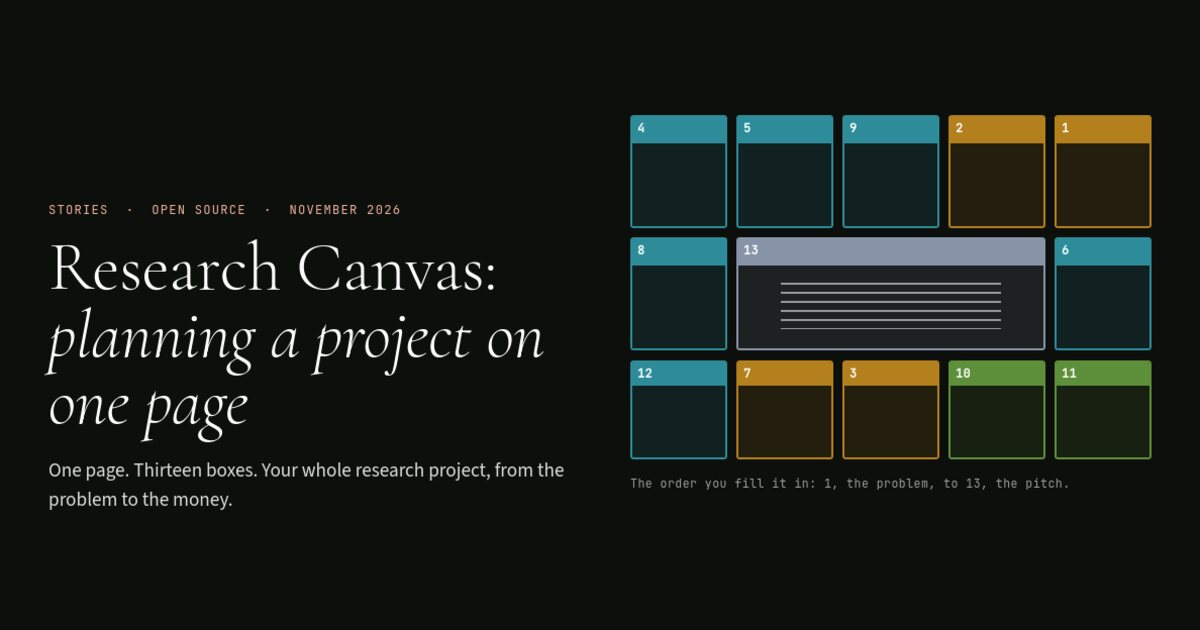
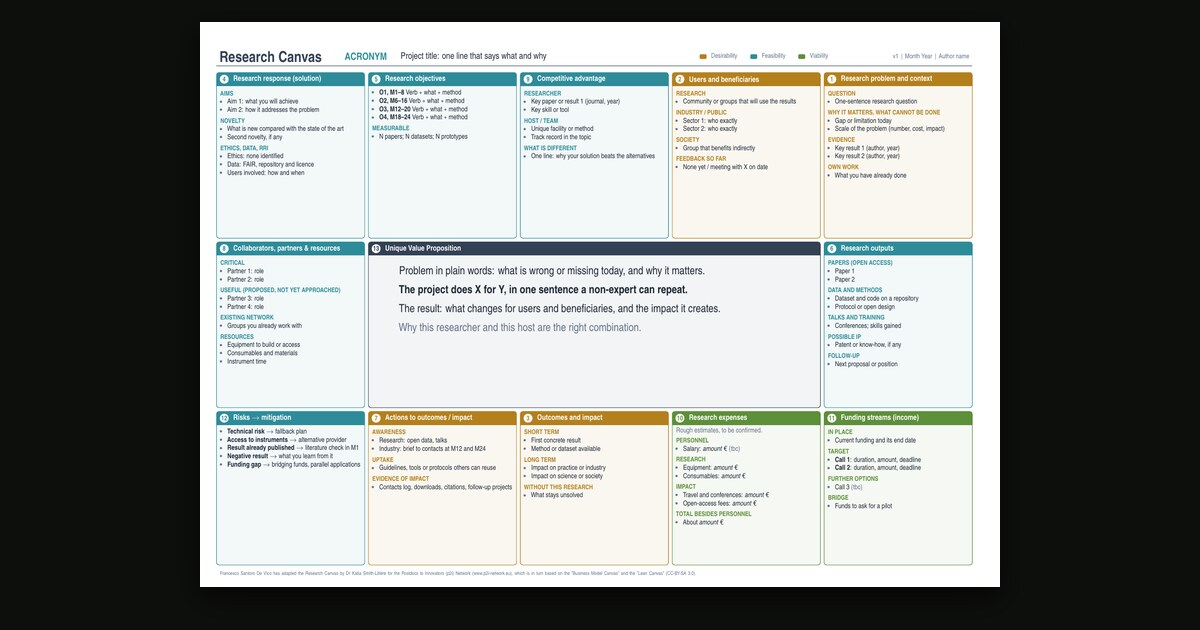
Make Geology one scrolling page and show the empty canvas on its card
Papers, Stories (inside a pale frame that unfolds) and Video now sit on one
page instead of tabs, with three doors that scroll to them and a slim section
bar. The Research Canvas hero names its boxes, and its card and share image
now show the empty template on black.

diff --git a/hobbies/geology.html b/hobbies/geology.html
@@ -13,8 +13,9 @@
     <script>document.documentElement.classList.add('js');setTimeout(function(){var b=document.body;if(b&&!b.classList.contains('is-loaded')){b.classList.add('is-loaded');document.querySelectorAll('.reveal').forEach(function(e){e.classList.add('is-in')})}},2500);</script>
     <link rel="stylesheet" href="../css/style.css?v=3">
     <style>
-    /* Geology index: three doors onto three kinds of work. The doors are links
-       and every panel is in the HTML, so without JS the page is one long list. */
+    /* Geology index: one long page. Three doors at the top scroll to the three parts:
+       papers on night, the stories inside a pale frame that unfolds as you arrive,
+       then the videos on night again. A slim section bar follows you down. */
     .geo-doors { background: var(--color-night); padding: clamp(1rem, 2vw, 1.75rem) 0 0; }
     .geo-door-row { display: flex; gap: clamp(.5rem, 1vw, .9rem); height: clamp(340px, 58vh, 600px); }
     .geo-door {
@@ -24,12 +25,11 @@
       transition: flex-grow .9s var(--ease-out);
     }
     .geo-door:hover, .geo-door:focus-visible { color: #fff; flex-grow: 1.35; }
-    .js .geo-door[aria-selected="true"] { flex-grow: 1.7; }
     .geo-door img {
       position: absolute; inset: 0; width: 100%; height: 100%; object-fit: cover;
       filter: saturate(.75) brightness(.72); transition: filter .9s var(--ease-out), transform 1.4s var(--ease-out);
     }
-    .geo-door:hover img, .js .geo-door[aria-selected="true"] img { filter: none; transform: scale(1.03); }
+    .geo-door:hover img, .geo-door.is-active img { filter: none; transform: scale(1.03); }
     .geo-door::after {
       content: ''; position: absolute; inset: 0;
       background: linear-gradient(to top, rgba(13,15,12,.92) 8%, rgba(13,15,12,.1) 62%);
@@ -53,7 +53,7 @@
       background: var(--color-amber); transform: scaleX(0); transform-origin: left;
       transition: transform .8s var(--ease-out);
     }
-    .js .geo-door[aria-selected="true"] .geo-door-bar { transform: scaleX(1); }
+    .geo-door.is-active .geo-door-bar { transform: scaleX(1); }
 
     .geo-panel-head { display: grid; grid-template-columns: minmax(0,5fr) minmax(0,7fr); gap: clamp(1.5rem,4vw,4rem); align-items: end; margin-bottom: clamp(2.5rem,5vw,4.5rem); }
     .geo-panel-head h2 { font-weight: 300; font-size: clamp(2.4rem, 5vw, 4.4rem); line-height: 1.02; margin: 0; color: inherit; }
@@ -83,9 +83,18 @@
     .geo-paper-meta a { position: relative; z-index: 1; color: #fff; border-bottom: 1px solid var(--color-amber); }
     .geo-paper-meta a:hover { color: #f0b39f; }
 
-    /* Stories keep the site's ordinary post cards */
+    /* Stories keep the site's ordinary post cards, inside a pale frame on the night page */
+    .geo-stories-sec { background: var(--color-night); padding: clamp(.5rem,2vw,1.5rem) 0 clamp(2rem,4vw,3.5rem); scroll-margin-top: 4rem; }
+    .geo-frame { margin: 0 var(--gutter); background: var(--color-chalk); color: var(--color-ink); border-radius: 6px; clip-path: inset(var(--ci,0px) var(--cx,0px) 0 var(--cx,0px) round 6px); will-change: clip-path; }
+    .geo-frame.post-index { padding-top: clamp(3rem,6vw,5.5rem); }
     .geo-stories .geo-panel-head { color: var(--color-ink); }
     .geo-stories .geo-panel-head p { color: var(--color-slate); }
+
+    .geo-snav { position: fixed; z-index: 44; bottom: 1rem; left: 50%; display: flex; gap: .2rem; padding: .3rem; background: rgba(13,15,12,.9); border: 1px solid rgba(255,255,255,.16); border-radius: 99px; transform: translate(-50%,14px); opacity: 0; pointer-events: none; transition: opacity .4s, transform .5s var(--ease-out); }
+    .geo-snav.on { opacity: 1; transform: translate(-50%,0); pointer-events: auto; }
+    .geo-snav a { min-height: 38px; display: inline-flex; align-items: center; padding: 0 1.1rem; border-radius: 99px; font: 600 .88rem var(--font-body); color: rgba(255,255,255,.75); transition: background .25s, color .25s; }
+    .geo-snav a:hover { color: #fff; }
+    .geo-snav a.is-active { background: var(--color-amber); color: #fff; }
 
     /* Video */
     .geo-video { background: var(--color-night); color: #fff; padding: clamp(3.5rem,7vw,6.5rem) 0; }
@@ -120,7 +129,7 @@
     }
     @media (max-width: 760px) {
       .geo-door-row { flex-direction: column; height: auto; }
-      .geo-door, .geo-door:hover, .js .geo-door[aria-selected="true"] { flex: none; min-height: 188px; }
+      .geo-door, .geo-door:hover { flex: none; min-height: 188px; }
       .geo-panel-head { grid-template-columns: 1fr; gap: 1rem; }
       .geo-paper { grid-template-columns: 1fr; }
       .geo-paper-year { padding: 0; }
@@ -147,22 +156,22 @@
 
         <section class="geo-doors" aria-label="Browse by kind">
             <div class="frame">
-                <div class="geo-door-row" role="tablist" aria-label="Kinds of work">
-                    <a class="geo-door" id="door-papers" href="#papers" role="tab" aria-controls="papers" aria-selected="true">
+                <div class="geo-door-row">
+                    <a class="geo-door" id="door-papers" href="#papers">
                         <img src="../img/hobbies/geology/calcite-micropillars.jpg" alt="" fetchpriority="low">
                         <span class="geo-door-count">7 papers</span>
                         <span class="geo-door-name">Scientific papers</span>
                         <span class="geo-door-note">My own research, each paper opened up into a page you can explore.</span>
                         <span class="geo-door-bar"></span>
                     </a>
-                    <a class="geo-door" id="door-stories" href="#stories" role="tab" aria-controls="stories" aria-selected="false">
+                    <a class="geo-door" id="door-stories" href="#stories">
                         <img src="../img/post/geology/lanzarote-skylight.jpg" alt="">
                         <span class="geo-door-count">3 posts</span>
                         <span class="geo-door-name">Stories</span>
                         <span class="geo-door-note">Geology written for anyone curious, from fieldwork to the Dolomites.</span>
                         <span class="geo-door-bar"></span>
                     </a>
-                    <a class="geo-door" id="door-video" href="#video" role="tab" aria-controls="video" aria-selected="false">
+                    <a class="geo-door" id="door-video" href="#video">
                         <img src="../img/hobbies/geology/video-door.jpg" alt="">
                         <span class="geo-door-count">3 videos</span>
                         <span class="geo-door-name">Video</span>
@@ -173,7 +182,11 @@
             </div>
         </section>
 
-        <section class="geo-papers geo-panel" id="papers" role="tabpanel" aria-labelledby="door-papers">
+        <nav class="geo-snav" id="geo-snav" aria-label="Sections of this page">
+            <a href="#papers">Papers</a><a href="#stories">Stories</a><a href="#video">Video</a>
+        </nav>
+
+        <section class="geo-papers geo-panel" id="papers">
             <div class="frame">
                 <header class="geo-panel-head">
                     <h2>Scientific papers</h2>
@@ -270,7 +283,8 @@
             </div>
         </section>
 
-        <section class="post-index geo-stories geo-panel" id="stories" role="tabpanel" aria-labelledby="door-stories">
+        <section class="geo-stories-sec" id="stories">
+        <div class="geo-frame post-index geo-stories" id="geo-frame">
         <div class="frame">
 
             <header class="geo-panel-head">
@@ -283,7 +297,7 @@
 
                 <a href="../posts/geology/geology-research-canvas.html" class="blog-post-card reveal">
                     <div class="blog-post-card-image">
-                        <img src="../img/post/geology/research-canvas-og.jpg" alt="Thirteen boxes of the Research Canvas, in three colours, assembling on a dark page">
+                        <img src="../img/post/geology/research-canvas-og.jpg" alt="The empty Research Canvas: thirteen boxes in three colours on one A4 page, on a black background">
                     </div>
                     <div class="blog-post-card-body">
                         <span class="post-date">November 2026</span>
@@ -338,9 +352,10 @@
 
             </div>
         </div>
+        </div>
         </section>
 
-        <section class="geo-video geo-panel" id="video" role="tabpanel" aria-labelledby="door-video">
+        <section class="geo-video geo-panel" id="video">
             <div class="frame">
                 <header class="geo-panel-head">
                     <h2>Video</h2>
@@ -388,49 +403,26 @@
     <script src="https://cdn.jsdelivr.net/npm/lenis@1.1.13/dist/lenis.min.js" defer></script>
     <script>
     (function () {
+      var reduce = window.matchMedia('(prefers-reduced-motion: reduce)').matches;
       var doors = [].slice.call(document.querySelectorAll('.geo-door'));
-      var panels = [].slice.call(document.querySelectorAll('.geo-panel'));
-      function open(id, focus) {
-        doors.forEach(function (d) {
-          var on = d.getAttribute('aria-controls') === id;
-          d.setAttribute('aria-selected', on);
-          d.tabIndex = on ? 0 : -1;
-          if (on && focus) d.focus();
-        });
-        panels.forEach(function (p) { p.hidden = p.id !== id; });
-        if (window.siteLenis) window.siteLenis.resize();
+      var snavLinks = [].slice.call(document.querySelectorAll('.geo-snav a'));
+      var ids = ['papers', 'stories', 'video'].map(function (i) { return document.getElementById(i); });
+      var snav = document.getElementById('geo-snav'), doorsSec = document.querySelector('.geo-doors'), frame = document.getElementById('geo-frame');
+      function spy() {
+        var y = window.innerHeight * .38, cur = -1;
+        ids.forEach(function (el, i) { if (el.getBoundingClientRect().top <= y) cur = i; });
+        doors.forEach(function (d, i) { d.classList.toggle('is-active', i === cur); });
+        snavLinks.forEach(function (a, i) { a.classList.toggle('is-active', i === cur); });
+        snav.classList.toggle('on', doorsSec.getBoundingClientRect().bottom < 70);
+        // the stories frame unfolds as it comes into view
+        var r = frame.getBoundingClientRect(), p = reduce ? 1 : Math.max(0, Math.min(1, (window.innerHeight * .92 - r.top) / (window.innerHeight * .75)));
+        p = p * p * (3 - 2 * p);
+        frame.style.setProperty('--cx', ((1 - p) * 9).toFixed(2) + 'vw');
+        frame.style.setProperty('--ci', ((1 - p) * 12).toFixed(2) + 'vh');
       }
-      function jump(id) {
-        var el = document.getElementById(id);
-        if (window.siteLenis) window.siteLenis.scrollTo(el, { offset: -64 });
-        else window.scrollTo(0, el.getBoundingClientRect().top + window.pageYOffset - 64);
-      }
-      doors.forEach(function (d, i) {
-        d.addEventListener('click', function (e) {
-          e.preventDefault();
-          var id = d.getAttribute('aria-controls');
-          open(id);
-          history.replaceState(null, '', '#' + id);
-          jump(id);
-        });
-        d.addEventListener('keydown', function (e) {
-          var step = { ArrowRight: 1, ArrowDown: 1, ArrowLeft: -1, ArrowUp: -1 }[e.key];
-          if (!step) return;
-          e.preventDefault();
-          open(doors[(i + step + doors.length) % doors.length].getAttribute('aria-controls'), true);
-        });
-      });
-      // the Video link in a paper row opens the Video door
-      document.querySelectorAll('.geo-paper-meta a[href="#video"]').forEach(function (a) {
-        a.addEventListener('click', function (e) {
-          e.preventDefault();
-          open('video');
-          history.replaceState(null, '', '#video');
-          jump('video');
-        });
-      });
-      var start = location.hash.slice(1);
-      open(document.getElementById(start) && doors.some(function (d) { return d.getAttribute('aria-controls') === start; }) ? start : 'papers');
+      window.addEventListener('scroll', spy, { passive: true });
+      window.addEventListener('resize', spy);
+      spy();
 
       document.querySelectorAll('.geo-vid').forEach(function (fig) {
         var player = fig.querySelector('.geo-video-p');

diff --git a/posts/geology/geology-research-canvas.html b/posts/geology/geology-research-canvas.html
@@ -35,6 +35,8 @@
     .mini i { position: relative; border: 2px solid var(--c); background: color-mix(in srgb, var(--c) 14%, transparent); border-radius: 3px; opacity: 0; transform: translateY(-14px) scale(.94); animation: mini-in .7s var(--ease-out) forwards; animation-delay: calc(var(--n) * .26s + .35s); }
     .mini i::before { content: ''; position: absolute; left: 0; right: 0; top: 0; height: 24%; background: var(--c); border-radius: 1px 1px 0 0; }
     .mini i b { position: absolute; left: 5px; top: 3px; font: 600 clamp(.58rem,1vw,.8rem) var(--font-mono); color: #fff; }
+    .mini i span { position: absolute; left: clamp(18px,2.2vw,26px); right: 3px; top: 3px; overflow: hidden; white-space: nowrap; text-overflow: ellipsis; font: 600 clamp(.46rem,.8vw,.68rem) var(--font-mono); letter-spacing: .02em; color: rgba(255,255,255,.92); }
+    @media (max-width: 640px) { .mini i span { display: none; } }
     .mini i.d { --c: var(--rc-d); } .mini i.f { --c: var(--rc-f); } .mini i.v { --c: var(--rc-v); } .mini i.p { --c: #8794a8; }
     .mini i[style*="--n:13"]::after { content: ''; position: absolute; inset: 40% 14% 18% 14%; background: repeating-linear-gradient(#fff 0 2px, transparent 2px 9px); opacity: .55; }
     .mini i[style*="--n:4"] { grid-area: n4; } .mini i[style*="--n:5"] { grid-area: n5; } .mini i[style*="--n:9"] { grid-area: n9; } .mini i[style*="--n:2"] { grid-area: n2; } .mini i[style*="--n:1"] { grid-area: n1; }
@@ -185,7 +187,7 @@
                 <a class="rcp-btn" href="https://github.com/PacoSanto/research-canvas-latex" target="_blank" rel="noopener">Get it on GitHub</a>
             </div>
             <div>
-                <div class="mini" aria-hidden="true"><i class="d" style="--n:1"><b>1</b></i><i class="d" style="--n:2"><b>2</b></i><i class="d" style="--n:3"><b>3</b></i><i class="f" style="--n:4"><b>4</b></i><i class="f" style="--n:5"><b>5</b></i><i class="f" style="--n:6"><b>6</b></i><i class="d" style="--n:7"><b>7</b></i><i class="f" style="--n:8"><b>8</b></i><i class="f" style="--n:9"><b>9</b></i><i class="v" style="--n:10"><b>10</b></i><i class="v" style="--n:11"><b>11</b></i><i class="f" style="--n:12"><b>12</b></i><i class="p" style="--n:13"><b>13</b></i></div>
+                <div class="mini" aria-hidden="true"><i class="d" style="--n:1"><b>1</b><span>Problem</span></i><i class="d" style="--n:2"><b>2</b><span>Users</span></i><i class="d" style="--n:3"><b>3</b><span>Outcomes</span></i><i class="f" style="--n:4"><b>4</b><span>Response</span></i><i class="f" style="--n:5"><b>5</b><span>Objectives</span></i><i class="f" style="--n:6"><b>6</b><span>Outputs</span></i><i class="d" style="--n:7"><b>7</b><span>Actions</span></i><i class="f" style="--n:8"><b>8</b><span>Partners</span></i><i class="f" style="--n:9"><b>9</b><span>Advantage</span></i><i class="v" style="--n:10"><b>10</b><span>Expenses</span></i><i class="v" style="--n:11"><b>11</b><span>Funding</span></i><i class="f" style="--n:12"><b>12</b><span>Risks</span></i><i class="p" style="--n:13"><b>13</b><span>Unique Value Proposition</span></i></div>
                 <p class="mini-cap" aria-hidden="true">The order you fill it in: 1, the problem, to 13, the pitch.</p>
             </div>
         </div>
